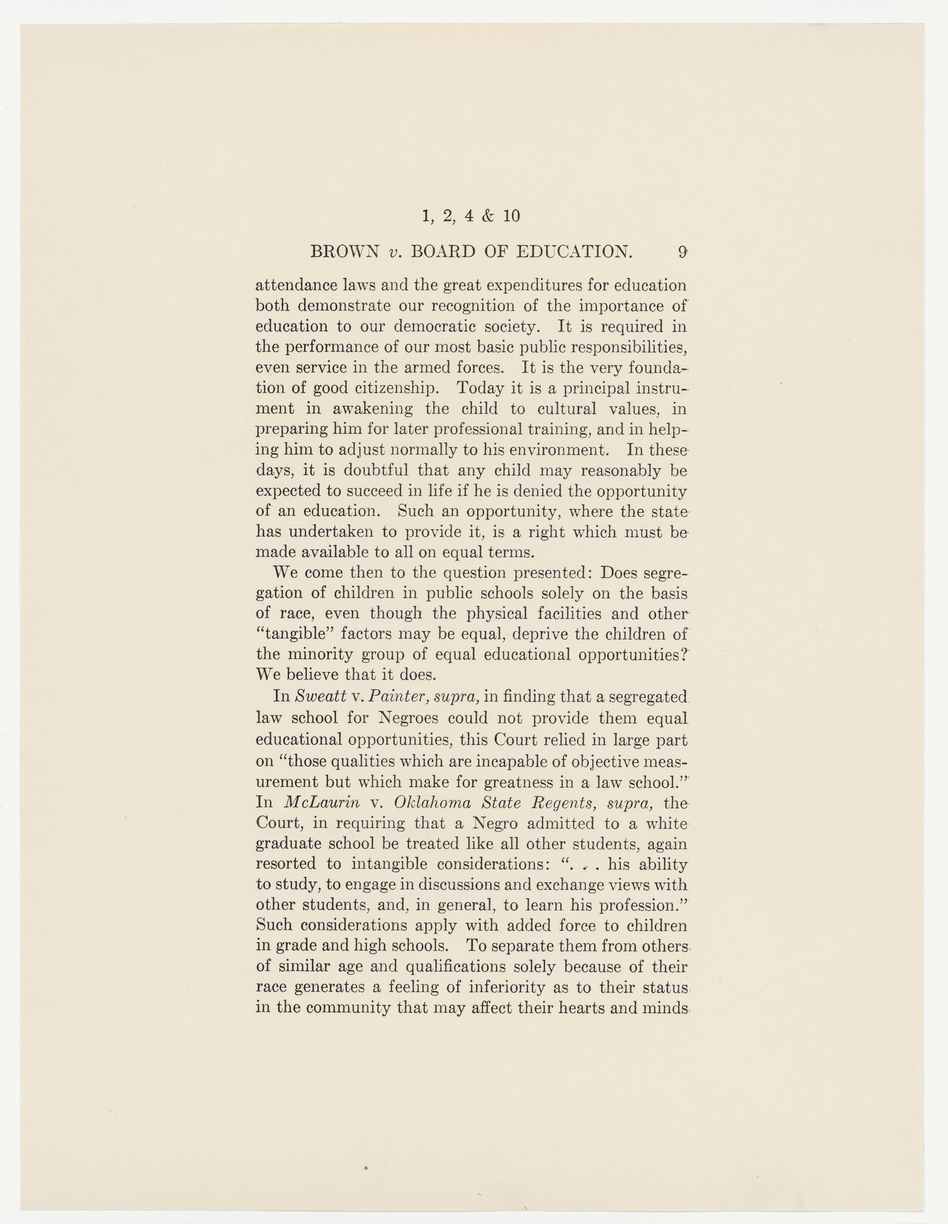
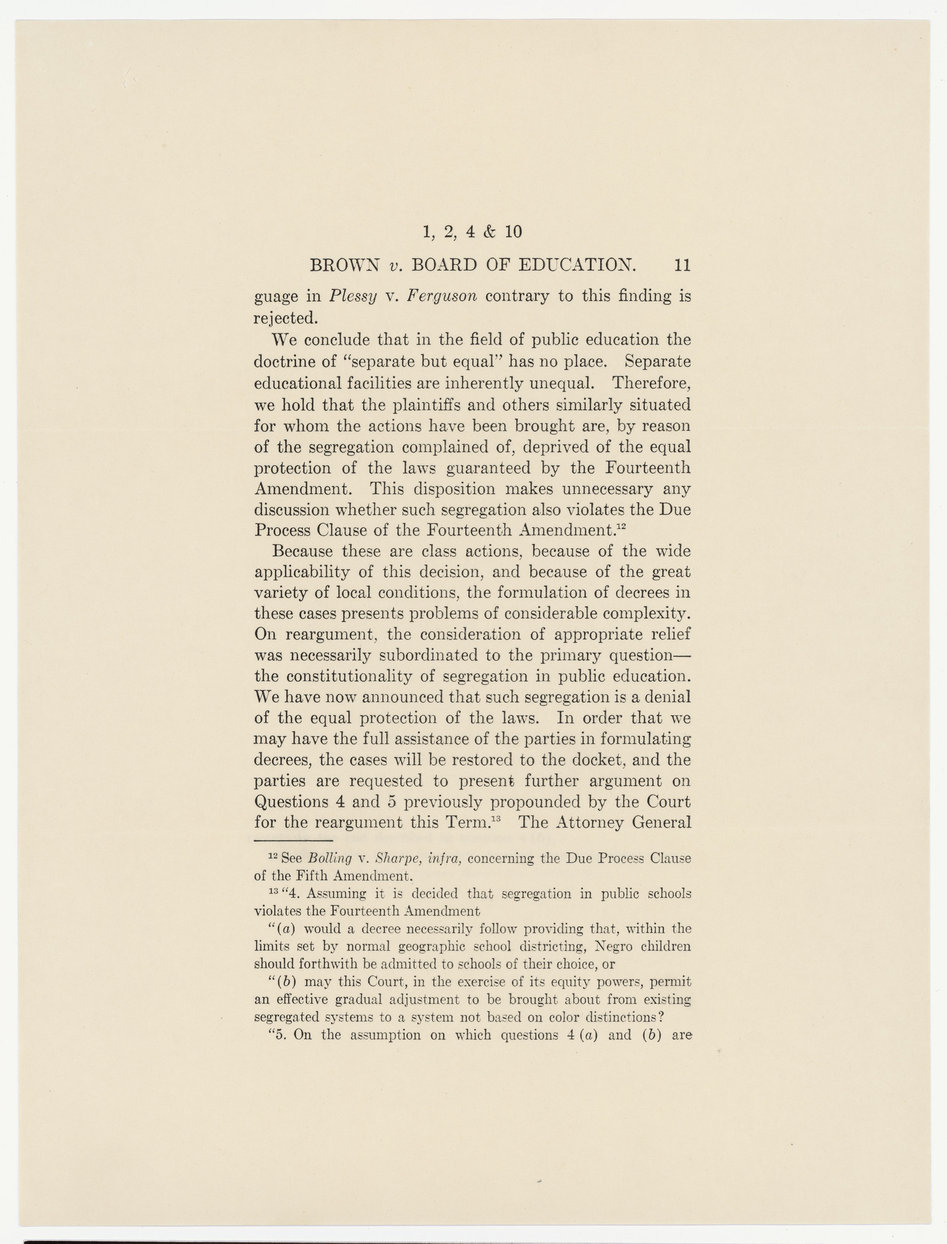
Fix Brown v Board title - six words not nine

Changed region(s): [[0.2469, 0.1548, 0.7406, 0.8361], [0.0309, 0.0, 0.9875, 1.0], [0.0, 0.0, 0.7406, 0.3406]]

diff --git a/content/brown-v-board-1954.md b/content/brown-v-board-1954.md
@@ -1,13 +1,14 @@
 ---
-title: "Nine Words That Changed America"
+title: "Six Words That Changed America"
 date: "May 17, 1954"
 category: "Civil Rights"
 tag: "Supreme Court"
 readTime: "7 min read"
 slug: "brown-v-board-1954"
 publishDate: "2026-05-17 08:00"
-excerpt: "On this day in 1954, nine Supreme Court justices agreed on nine words that dismantled sixty years of legalized segregation: Separate educational facilities are inherently unequal."
-sourceUrl: "https://www.archives.gov/milestone-documents/brown-v-board-of-education"
+excerpt: "On this day in 1954, nine Supreme Court justices agreed on six words that dismantled sixty years of legalized segregation: Separate educational facilities are inherently unequal."
+sourceUrl: "https://www.archives.gov/milestone-documents/brown-v-board-of-education#transcript"
+sourceName: "Read the Full Opinion"
 ---
 
 The courtroom was quiet when Chief Justice Earl Warren began reading. It was May 17, 1954, and the nine justices of the United States Supreme Court had been wrestling for months with a question that had divided America since the end of the Civil War: could a nation founded on equality continue to separate its children by the color of their skin?
@@ -16,7 +17,7 @@ Warren read for about an hour. Near the end, he reached the sentence that would 
 
 We conclude that in the field of public education the doctrine of separate but equal has no place. Separate educational facilities are inherently unequal.
 
-Nine words. Sixty years of legalized segregation, dismantled in a single sentence.
+Six words. Sixty years of legalized segregation, dismantled in a single sentence.
 
 ## The Road to Topeka
 
@@ -48,7 +49,7 @@ But on May 17, 1954, in cities and towns across Black America, people wept. Thur
 
 More than seventy years later, the questions Brown tried to answer remain unresolved. Studies consistently show that American schools are more racially and economically segregated today than they were in the 1980s — not because of law, but because of geography, housing policy, and school district boundaries drawn in ways that reproduce the separations Brown sought to eliminate.
 
-The nine words Warren read that morning in 1954 were not an ending. They were a beginning — and an argument America is still having with itself.
+The six words Warren read that morning in 1954 were not an ending. They were a beginning — and an argument America is still having with itself.
 
 ## The Document
 
